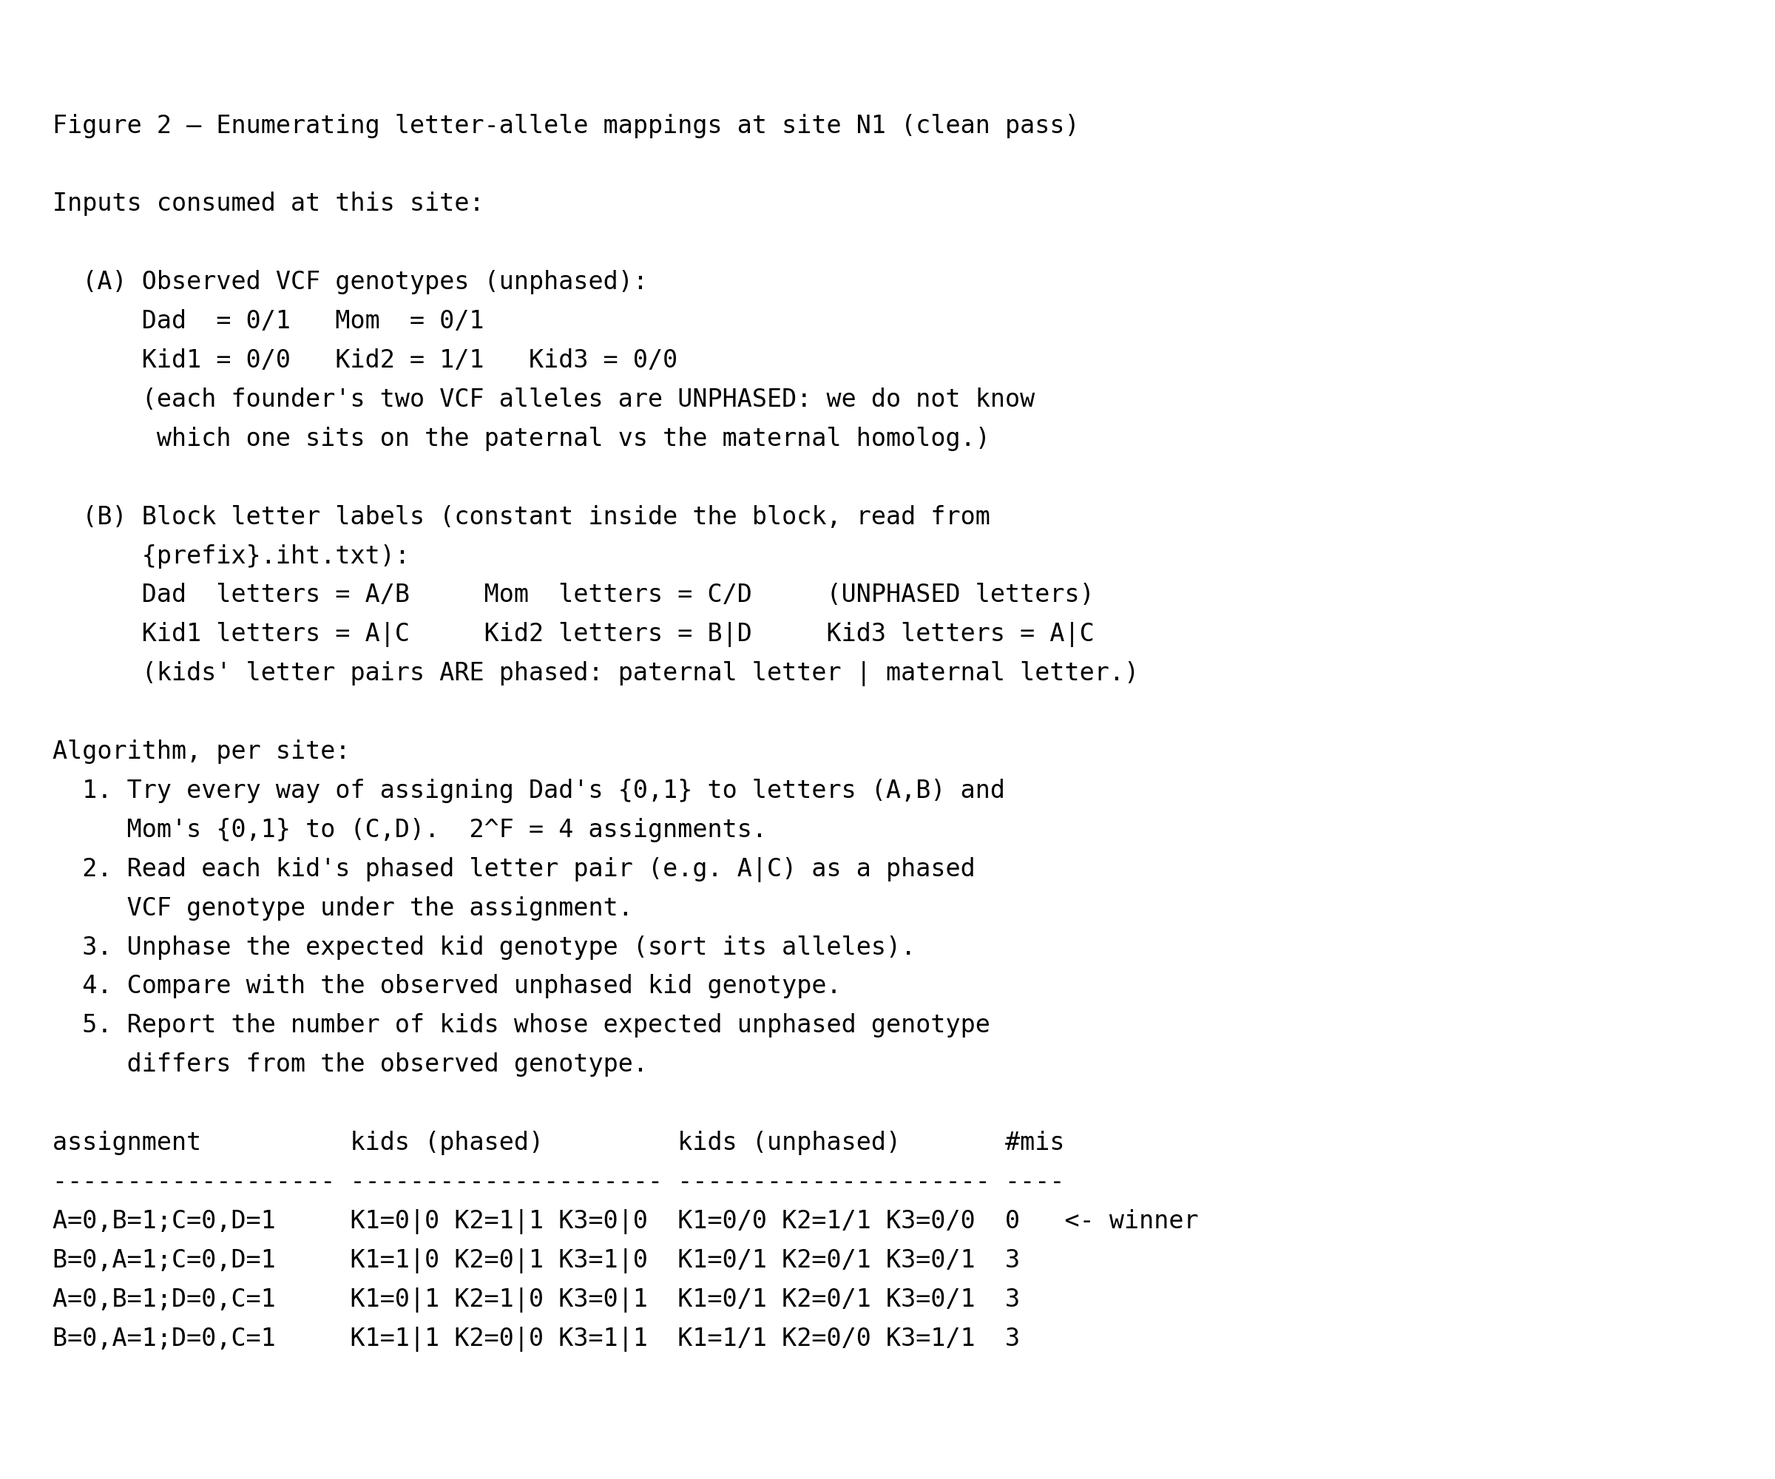
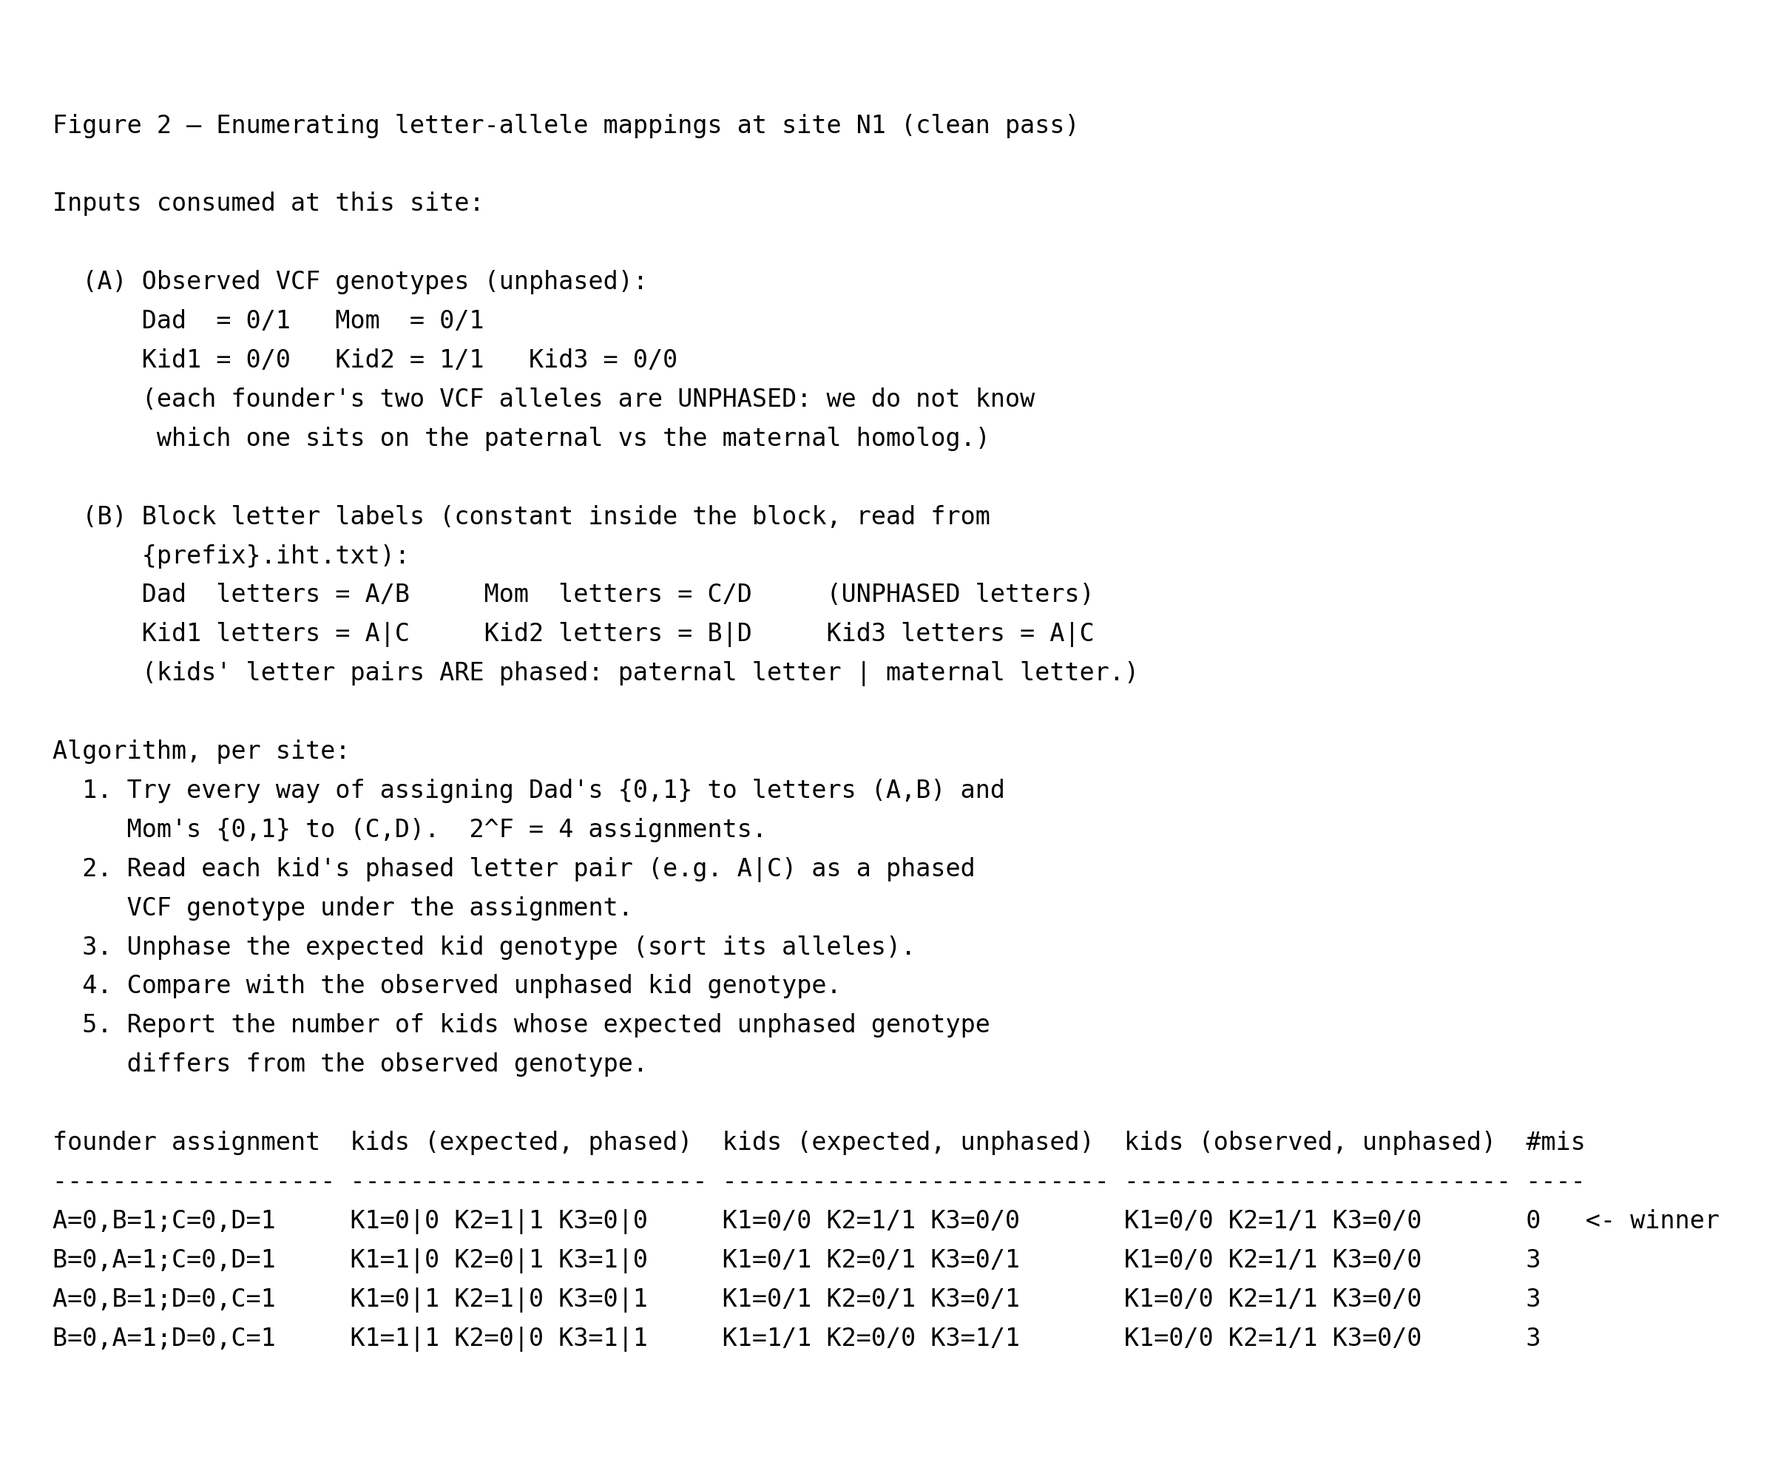
Add observed-genotype column to concordance Fig 2
Fig 2 now shows observed unphased kid genotypes alongside the expected
ones under each mapping, making the per-row mismatch count visually
justified. Column headers are relabelled for symmetry: "assignment" ->
"founder assignment", "kids (phased)" / "kids (unphased)" ->
"kids (expected, phased)" / "kids (expected, unphased)", plus the new
"kids (observed, unphased)". §3 prose updated to reference the
renamed column.

diff --git a/wiki/generate_wiki.py b/wiki/generate_wiki.py
@@ -2678,8 +2678,14 @@ def component_3_concordance(out_dir: Path) -> None:
     s1 = per_site[0]
     obs1 = s1["observed"]
 
-    assign_cols = ["assignment", "kids (phased)", "kids (unphased)", "#mis"]
-    assign_widths = [20, 22, 22, 5]
+    assign_cols = [
+        "founder assignment",
+        "kids (expected, phased)",
+        "kids (expected, unphased)",
+        "kids (observed, unphased)",
+        "#mis",
+    ]
+    assign_widths = [20, 25, 27, 27, 5]
 
     body_2 = [
         f"Figure 2 — Enumerating letter-allele mappings at site {s1['label']} (clean pass)",
@@ -2713,6 +2719,11 @@ def component_3_concordance(out_dir: Path) -> None:
         _cols(assign_cols, assign_widths),
         _cols(["-" * (w - 1) for w in assign_widths], assign_widths),
     ]
+    observed_unphased = (
+        f"K1={_fmt_gt(obs1['Kid1'])} "
+        f"K2={_fmt_gt(obs1['Kid2'])} "
+        f"K3={_fmt_gt(obs1['Kid3'])}"
+    )
     for dl, ml, exp, nmis in s1["orient_results"]:
         dad_pair = _sorted_unphased(obs1["Dad"])
         mom_pair = _sorted_unphased(obs1["Mom"])
@@ -2725,7 +2736,7 @@ def component_3_concordance(out_dir: Path) -> None:
             f"K2={_fmt_phased(exp['Kid2'])} "
             f"K3={_fmt_phased(exp['Kid3'])}"
         )
-        unphased = (
+        expected_unphased = (
             f"K1={_fmt_gt(exp['Kid1'])} "
             f"K2={_fmt_gt(exp['Kid2'])} "
             f"K3={_fmt_gt(exp['Kid3'])}"
@@ -2733,7 +2744,7 @@ def component_3_concordance(out_dir: Path) -> None:
         star = "   <- winner" if nmis == 0 else ""
         body_2.append(
             _cols(
-                [assignment, phased, unphased, str(nmis)],
+                [assignment, phased, expected_unphased, observed_unphased, str(nmis)],
                 assign_widths,
                 star,
             )
@@ -3005,7 +3016,8 @@ many kids disagree.
 At site `N1`, exactly one of the four mappings explains every kid
 simultaneously; the three others each force a mismatch somewhere.
 Under the winning mapping, the kids' phased letter pairs immediately
-give the phased `p|m` genotypes shown in the "kids (phased)" column.
+give the phased `p|m` genotypes shown in the
+"kids (expected, phased)" column.
 
 ## 4. The "impossible genotype" rule
 

diff --git a/wiki/concordance/concordance.md b/wiki/concordance/concordance.md
@@ -6,16 +6,16 @@ off. `gtg-ped-map` emits only founder letters, and only at informative
 sites; it never reconstructs the 0/1 allele sequence of any haplotype.
 That job belongs to `gtg-concordance`, which re-reads the VCF for each
 IHT block and phases **every** variant using the block's letter map.
-All line numbers refer to commit `5fccd19`. As in the other
+All line numbers refer to commit `fc639f2`. As in the other
 walkthrough pages, each function link is followed by its call site in
 the driver — `main()` in
-[`gtg_concordance.rs`](https://github.com/Platinum-Pedigree-Consortium/Platinum-Pedigree-Inheritance/blob/5fccd1962d8ad296422c6ad1d5c73b50820c9268/code/rust/src/bin/gtg_concordance.rs#L315) — so you can step through
+[`gtg_concordance.rs`](https://github.com/Platinum-Pedigree-Consortium/Platinum-Pedigree-Inheritance/blob/fc639f25b1c6860df2076151cbc161a8e1d4333b/code/rust/src/bin/gtg_concordance.rs#L315) — so you can step through
 the driver source in parallel with this walkthrough.
 
 The toy simulation reuses the [left half of the nuclear-family block](https://github.com/petermchale/Platinum-Pedigree-Inheritance/blob/main/wiki/nuclear_family/fig4_2.png)
 (Kid1=(A,C), Kid2=(B,D), Kid3=(A,C)) and adds two sites where both
 parents are heterozygous. These are NON-informative for `gtg-ped-map`
-because [`unique_allele`](https://github.com/Platinum-Pedigree-Consortium/Platinum-Pedigree-Inheritance/blob/5fccd1962d8ad296422c6ad1d5c73b50820c9268/code/rust/src/bin/map_builder.rs#L243) returns `None` at each
+because [`unique_allele`](https://github.com/Platinum-Pedigree-Consortium/Platinum-Pedigree-Inheritance/blob/fc639f25b1c6860df2076151cbc161a8e1d4333b/code/rust/src/bin/map_builder.rs#L243) returns `None` at each
 of them, but `gtg-concordance` still has to phase them. One of the two
 sites carries an injected sequencing error so both the clean-pass
 (`pass.vcf`) and error-quarantine (`fail.vcf`) code paths are
@@ -32,8 +32,8 @@ markdown file itself.
 
 The driver reads the `{prefix}.iht.txt` file produced by
 `gtg-ped-map` using
-[`parse_ihtv2_file`](https://github.com/Platinum-Pedigree-Consortium/Platinum-Pedigree-Inheritance/blob/5fccd1962d8ad296422c6ad1d5c73b50820c9268/code/rust/src/iht.rs#L606) (driver call at
-[`gtg_concordance.rs:405`](https://github.com/Platinum-Pedigree-Consortium/Platinum-Pedigree-Inheritance/blob/5fccd1962d8ad296422c6ad1d5c73b50820c9268/code/rust/src/bin/gtg_concordance.rs#L405)). The parser walks
+[`parse_ihtv2_file`](https://github.com/Platinum-Pedigree-Consortium/Platinum-Pedigree-Inheritance/blob/fc639f25b1c6860df2076151cbc161a8e1d4333b/code/rust/src/iht.rs#L606) (driver call at
+[`gtg_concordance.rs:405`](https://github.com/Platinum-Pedigree-Consortium/Platinum-Pedigree-Inheritance/blob/fc639f25b1c6860df2076151cbc161a8e1d4333b/code/rust/src/bin/gtg_concordance.rs#L405)). The parser walks
 the file line by line: the first three whitespace-separated fields of
 each row are the `chrom`, `start`, and `end` of the block's BED
 interval, the trailing columns carry the per-block marker count, and
@@ -50,22 +50,22 @@ The driver then iterates over the returned `Vec<IhtVec>` one block at
 a time. For each block it converts the BED coordinates to the
 `(chrom_id, start, end)` triple expected by `rust-htslib` and calls
 `reader.fetch(...)` at
-[`gtg_concordance.rs:427`](https://github.com/Platinum-Pedigree-Consortium/Platinum-Pedigree-Inheritance/blob/5fccd1962d8ad296422c6ad1d5c73b50820c9268/code/rust/src/bin/gtg_concordance.rs#L427) to position the VCF
+[`gtg_concordance.rs:427`](https://github.com/Platinum-Pedigree-Consortium/Platinum-Pedigree-Inheritance/blob/fc639f25b1c6860df2076151cbc161a8e1d4333b/code/rust/src/bin/gtg_concordance.rs#L427) to position the VCF
 reader on the first record that falls inside the block — silently
 skipping the block if the fetch fails (e.g. the contig is absent from
 the VCF index). Every record returned by the resulting
 `reader.records()` iterator is fed through
-[`parse_vcf_record`](https://github.com/Platinum-Pedigree-Consortium/Platinum-Pedigree-Inheritance/blob/5fccd1962d8ad296422c6ad1d5c73b50820c9268/code/rust/src/bin/gtg_concordance.rs#L116) at
-[`gtg_concordance.rs:440`](https://github.com/Platinum-Pedigree-Consortium/Platinum-Pedigree-Inheritance/blob/5fccd1962d8ad296422c6ad1d5c73b50820c9268/code/rust/src/bin/gtg_concordance.rs#L440), which pulls each
+[`parse_vcf_record`](https://github.com/Platinum-Pedigree-Consortium/Platinum-Pedigree-Inheritance/blob/fc639f25b1c6860df2076151cbc161a8e1d4333b/code/rust/src/bin/gtg_concordance.rs#L116) at
+[`gtg_concordance.rs:440`](https://github.com/Platinum-Pedigree-Consortium/Platinum-Pedigree-Inheritance/blob/fc639f25b1c6860df2076151cbc161a8e1d4333b/code/rust/src/bin/gtg_concordance.rs#L440), which pulls each
 sample's depth and (unphased, index-sorted) allele vector into a
 `HashMap<String, (depth, Vec<GenotypeAllele>)>`. Low-quality records
 (`record.qual() < args.qual`) and records with missing alleles are
 short-circuited straight to `{prefix}.fail.vcf` at
-[`gtg_concordance.rs:444`](https://github.com/Platinum-Pedigree-Consortium/Platinum-Pedigree-Inheritance/blob/5fccd1962d8ad296422c6ad1d5c73b50820c9268/code/rust/src/bin/gtg_concordance.rs#L444) and
-[`gtg_concordance.rs:450`](https://github.com/Platinum-Pedigree-Consortium/Platinum-Pedigree-Inheritance/blob/5fccd1962d8ad296422c6ad1d5c73b50820c9268/code/rust/src/bin/gtg_concordance.rs#L450); everything else is
+[`gtg_concordance.rs:444`](https://github.com/Platinum-Pedigree-Consortium/Platinum-Pedigree-Inheritance/blob/fc639f25b1c6860df2076151cbc161a8e1d4333b/code/rust/src/bin/gtg_concordance.rs#L444) and
+[`gtg_concordance.rs:450`](https://github.com/Platinum-Pedigree-Consortium/Platinum-Pedigree-Inheritance/blob/fc639f25b1c6860df2076151cbc161a8e1d4333b/code/rust/src/bin/gtg_concordance.rs#L450); everything else is
 handed to the per-site phasing step —
-[`find_best_phase_orientation`](https://github.com/Platinum-Pedigree-Consortium/Platinum-Pedigree-Inheritance/blob/5fccd1962d8ad296422c6ad1d5c73b50820c9268/code/rust/src/bin/gtg_concordance.rs#L252) at
-[`gtg_concordance.rs:454`](https://github.com/Platinum-Pedigree-Consortium/Platinum-Pedigree-Inheritance/blob/5fccd1962d8ad296422c6ad1d5c73b50820c9268/code/rust/src/bin/gtg_concordance.rs#L454) — including variants
+[`find_best_phase_orientation`](https://github.com/Platinum-Pedigree-Consortium/Platinum-Pedigree-Inheritance/blob/fc639f25b1c6860df2076151cbc161a8e1d4333b/code/rust/src/bin/gtg_concordance.rs#L252) at
+[`gtg_concordance.rs:454`](https://github.com/Platinum-Pedigree-Consortium/Platinum-Pedigree-Inheritance/blob/fc639f25b1c6860df2076151cbc161a8e1d4333b/code/rust/src/bin/gtg_concordance.rs#L454) — including variants
 that `gtg-ped-map` could not use because neither parent has a unique
 allele.
 
@@ -75,7 +75,7 @@ allele.
 
 The two sites in Figure 1 are both homozygous-absent for informative
 patterns: dad is `0/1` and so is mom. `gtg-ped-map`'s
-[`unique_allele`](https://github.com/Platinum-Pedigree-Consortium/Platinum-Pedigree-Inheritance/blob/5fccd1962d8ad296422c6ad1d5c73b50820c9268/code/rust/src/bin/map_builder.rs#L243) test therefore returns `None`
+[`unique_allele`](https://github.com/Platinum-Pedigree-Consortium/Platinum-Pedigree-Inheritance/blob/fc639f25b1c6860df2076151cbc161a8e1d4333b/code/rust/src/bin/map_builder.rs#L243) test therefore returns `None`
 at both sites, so neither contributes to block construction. They
 still enter `gtg-concordance`'s phasing loop; the per-site machinery
 described below is what turns their unphased genotypes into either a
@@ -90,31 +90,32 @@ that the "impossible genotype" rule in Figure 3 is designed to catch.
 ![Figure 2 — Enumerating letter-allele mappings at site N1 (clean pass)](fig2.png)
 
 At every record inside a block,
-[`find_best_phase_orientation`](https://github.com/Platinum-Pedigree-Consortium/Platinum-Pedigree-Inheritance/blob/5fccd1962d8ad296422c6ad1d5c73b50820c9268/code/rust/src/bin/gtg_concordance.rs#L252) (driver call at
-[`gtg_concordance.rs:454`](https://github.com/Platinum-Pedigree-Consortium/Platinum-Pedigree-Inheritance/blob/5fccd1962d8ad296422c6ad1d5c73b50820c9268/code/rust/src/bin/gtg_concordance.rs#L454)) enumerates the
+[`find_best_phase_orientation`](https://github.com/Platinum-Pedigree-Consortium/Platinum-Pedigree-Inheritance/blob/fc639f25b1c6860df2076151cbc161a8e1d4333b/code/rust/src/bin/gtg_concordance.rs#L252) (driver call at
+[`gtg_concordance.rs:454`](https://github.com/Platinum-Pedigree-Consortium/Platinum-Pedigree-Inheritance/blob/fc639f25b1c6860df2076151cbc161a8e1d4333b/code/rust/src/bin/gtg_concordance.rs#L454)) enumerates the
 `2^F=4` letter-allele mappings produced by
-[`Iht::founder_phase_orientations`](https://github.com/Platinum-Pedigree-Consortium/Platinum-Pedigree-Inheritance/blob/5fccd1962d8ad296422c6ad1d5c73b50820c9268/code/rust/src/iht.rs#L492) (invoked
+[`Iht::founder_phase_orientations`](https://github.com/Platinum-Pedigree-Consortium/Platinum-Pedigree-Inheritance/blob/fc639f25b1c6860df2076151cbc161a8e1d4333b/code/rust/src/iht.rs#L492) (invoked
 inside `find_best_phase_orientation` at
-[`gtg_concordance.rs:256`](https://github.com/Platinum-Pedigree-Consortium/Platinum-Pedigree-Inheritance/blob/5fccd1962d8ad296422c6ad1d5c73b50820c9268/code/rust/src/bin/gtg_concordance.rs#L256)). Each mapping
+[`gtg_concordance.rs:256`](https://github.com/Platinum-Pedigree-Consortium/Platinum-Pedigree-Inheritance/blob/fc639f25b1c6860df2076151cbc161a8e1d4333b/code/rust/src/bin/gtg_concordance.rs#L256)). Each mapping
 chooses which of dad's two sorted VCF alleles is tagged `A` vs `B`
 and which of mom's two is tagged `C` vs `D` — recall that the
 founders' letters are *unphased* (A/B, C/D), whereas each kid's
 letter pair is *phased* (paternal letter | maternal letter) by
 construction of the block. Under a given mapping,
-[`Iht::assign_genotypes`](https://github.com/Platinum-Pedigree-Consortium/Platinum-Pedigree-Inheritance/blob/5fccd1962d8ad296422c6ad1d5c73b50820c9268/code/rust/src/iht.rs#L442) (driver call at
-[`gtg_concordance.rs:487`](https://github.com/Platinum-Pedigree-Consortium/Platinum-Pedigree-Inheritance/blob/5fccd1962d8ad296422c6ad1d5c73b50820c9268/code/rust/src/bin/gtg_concordance.rs#L487) on the failing branch
-and [`gtg_concordance.rs:514`](https://github.com/Platinum-Pedigree-Consortium/Platinum-Pedigree-Inheritance/blob/5fccd1962d8ad296422c6ad1d5c73b50820c9268/code/rust/src/bin/gtg_concordance.rs#L514) on the passing
+[`Iht::assign_genotypes`](https://github.com/Platinum-Pedigree-Consortium/Platinum-Pedigree-Inheritance/blob/fc639f25b1c6860df2076151cbc161a8e1d4333b/code/rust/src/iht.rs#L442) (driver call at
+[`gtg_concordance.rs:487`](https://github.com/Platinum-Pedigree-Consortium/Platinum-Pedigree-Inheritance/blob/fc639f25b1c6860df2076151cbc161a8e1d4333b/code/rust/src/bin/gtg_concordance.rs#L487) on the failing branch
+and [`gtg_concordance.rs:514`](https://github.com/Platinum-Pedigree-Consortium/Platinum-Pedigree-Inheritance/blob/fc639f25b1c6860df2076151cbc161a8e1d4333b/code/rust/src/bin/gtg_concordance.rs#L514) on the passing
 branch) reads each kid's phased letter pair as a phased VCF genotype.
 That genotype is then unphased (alleles sorted) and compared against
 the observed unphased kid genotype by
-[`compare_genotype_maps`](https://github.com/Platinum-Pedigree-Consortium/Platinum-Pedigree-Inheritance/blob/5fccd1962d8ad296422c6ad1d5c73b50820c9268/code/rust/src/bin/gtg_concordance.rs#L213) (driver call at
-[`gtg_concordance.rs:268`](https://github.com/Platinum-Pedigree-Consortium/Platinum-Pedigree-Inheritance/blob/5fccd1962d8ad296422c6ad1d5c73b50820c9268/code/rust/src/bin/gtg_concordance.rs#L268)), which counts how
+[`compare_genotype_maps`](https://github.com/Platinum-Pedigree-Consortium/Platinum-Pedigree-Inheritance/blob/fc639f25b1c6860df2076151cbc161a8e1d4333b/code/rust/src/bin/gtg_concordance.rs#L213) (driver call at
+[`gtg_concordance.rs:268`](https://github.com/Platinum-Pedigree-Consortium/Platinum-Pedigree-Inheritance/blob/fc639f25b1c6860df2076151cbc161a8e1d4333b/code/rust/src/bin/gtg_concordance.rs#L268)), which counts how
 many kids disagree.
 
 At site `N1`, exactly one of the four mappings explains every kid
 simultaneously; the three others each force a mismatch somewhere.
 Under the winning mapping, the kids' phased letter pairs immediately
-give the phased `p|m` genotypes shown in the "kids (phased)" column.
+give the phased `p|m` genotypes shown in the
+"kids (expected, phased)" column.
 
 ## 4. The "impossible genotype" rule
 
@@ -125,10 +126,10 @@ mismatches — the best any mapping can do is 1 sample(s)
 disagreeing. `find_best_phase_orientation` therefore returns a
 non-empty mismatch list, the driver writes the record to
 `{prefix}.fail.vcf` at
-[`gtg_concordance.rs:507`](https://github.com/Platinum-Pedigree-Consortium/Platinum-Pedigree-Inheritance/blob/5fccd1962d8ad296422c6ad1d5c73b50820c9268/code/rust/src/bin/gtg_concordance.rs#L507) (alongside the
+[`gtg_concordance.rs:507`](https://github.com/Platinum-Pedigree-Consortium/Platinum-Pedigree-Inheritance/blob/fc639f25b1c6860df2076151cbc161a8e1d4333b/code/rust/src/bin/gtg_concordance.rs#L507) (alongside the
 low-quality and no-call records that were already routed to fail at
-[`gtg_concordance.rs:444`](https://github.com/Platinum-Pedigree-Consortium/Platinum-Pedigree-Inheritance/blob/5fccd1962d8ad296422c6ad1d5c73b50820c9268/code/rust/src/bin/gtg_concordance.rs#L444) and
-[`gtg_concordance.rs:450`](https://github.com/Platinum-Pedigree-Consortium/Platinum-Pedigree-Inheritance/blob/5fccd1962d8ad296422c6ad1d5c73b50820c9268/code/rust/src/bin/gtg_concordance.rs#L450)), and the offending
+[`gtg_concordance.rs:444`](https://github.com/Platinum-Pedigree-Consortium/Platinum-Pedigree-Inheritance/blob/fc639f25b1c6860df2076151cbc161a8e1d4333b/code/rust/src/bin/gtg_concordance.rs#L444) and
+[`gtg_concordance.rs:450`](https://github.com/Platinum-Pedigree-Consortium/Platinum-Pedigree-Inheritance/blob/fc639f25b1c6860df2076151cbc161a8e1d4333b/code/rust/src/bin/gtg_concordance.rs#L450)), and the offending
 sample names are appended to `{prefix}.failed_sites.txt`. If
 exactly one sample is the culprit across the whole block, the failure
 is counted as a "singleton" — a strong signal of a sequencing error
@@ -156,9 +157,9 @@ writes founder letters per individual per block.
 `gtg-concordance` (`gtg_concordance.rs`) is a pure phasing/QC tool
 that uses those structural labels to assign alleles at every site in
 the block: the passing records are phased via
-[`Iht::assign_genotypes`](https://github.com/Platinum-Pedigree-Consortium/Platinum-Pedigree-Inheritance/blob/5fccd1962d8ad296422c6ad1d5c73b50820c9268/code/rust/src/iht.rs#L442) and emitted to
+[`Iht::assign_genotypes`](https://github.com/Platinum-Pedigree-Consortium/Platinum-Pedigree-Inheritance/blob/fc639f25b1c6860df2076151cbc161a8e1d4333b/code/rust/src/iht.rs#L442) and emitted to
 `{prefix}.pass.vcf` at
-[`gtg_concordance.rs:534`](https://github.com/Platinum-Pedigree-Consortium/Platinum-Pedigree-Inheritance/blob/5fccd1962d8ad296422c6ad1d5c73b50820c9268/code/rust/src/bin/gtg_concordance.rs#L534), and the failing
+[`gtg_concordance.rs:534`](https://github.com/Platinum-Pedigree-Consortium/Platinum-Pedigree-Inheritance/blob/fc639f25b1c6860df2076151cbc161a8e1d4333b/code/rust/src/bin/gtg_concordance.rs#L534), and the failing
 records are quarantined to `{prefix}.fail.vcf` as described above.
 The split is the answer to "does `gtg-ped-map` reconstruct the 0/1
 allele sequence of each haplotype?": no, and deliberately — that is
